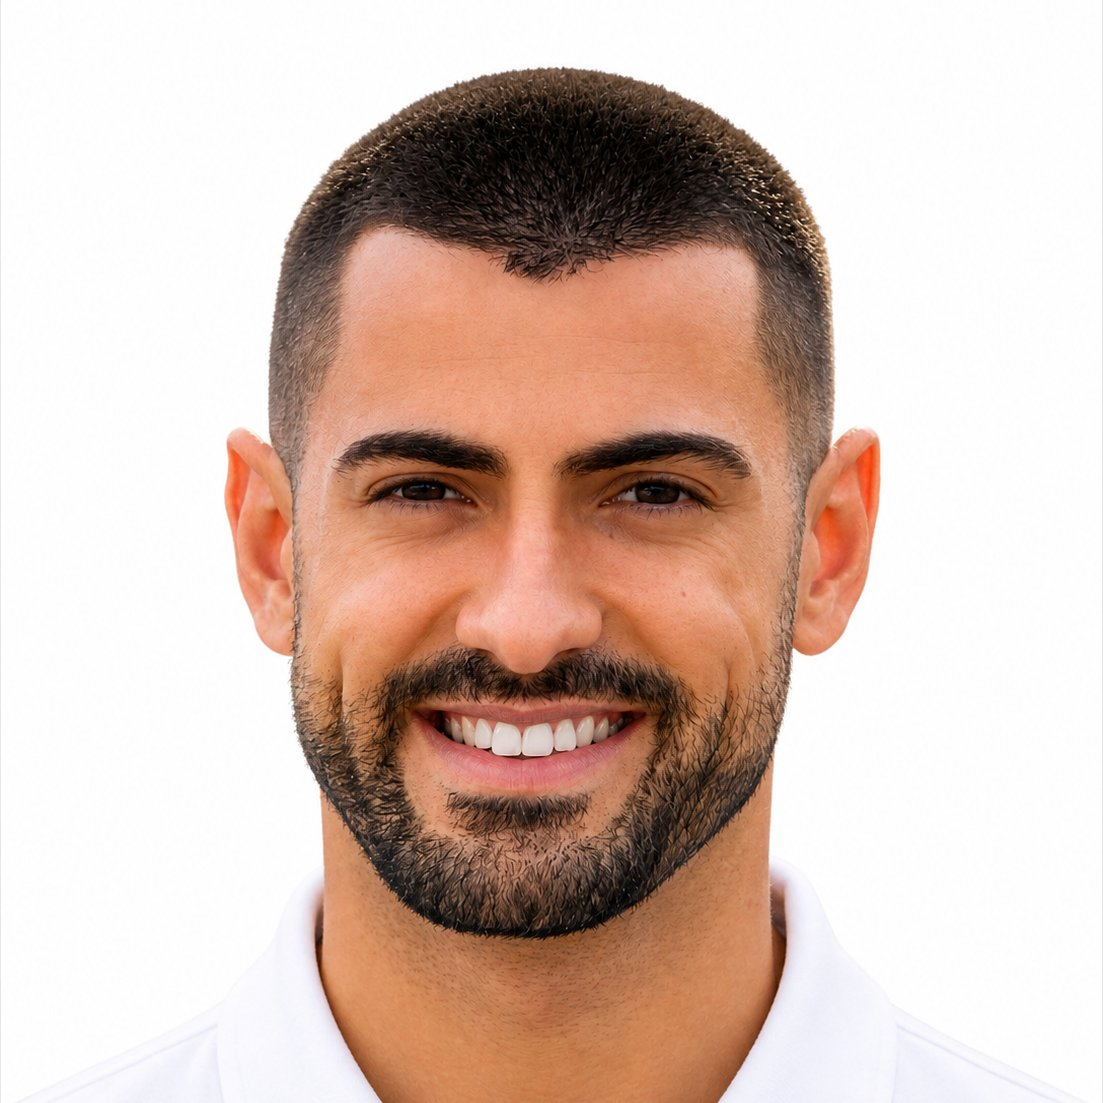
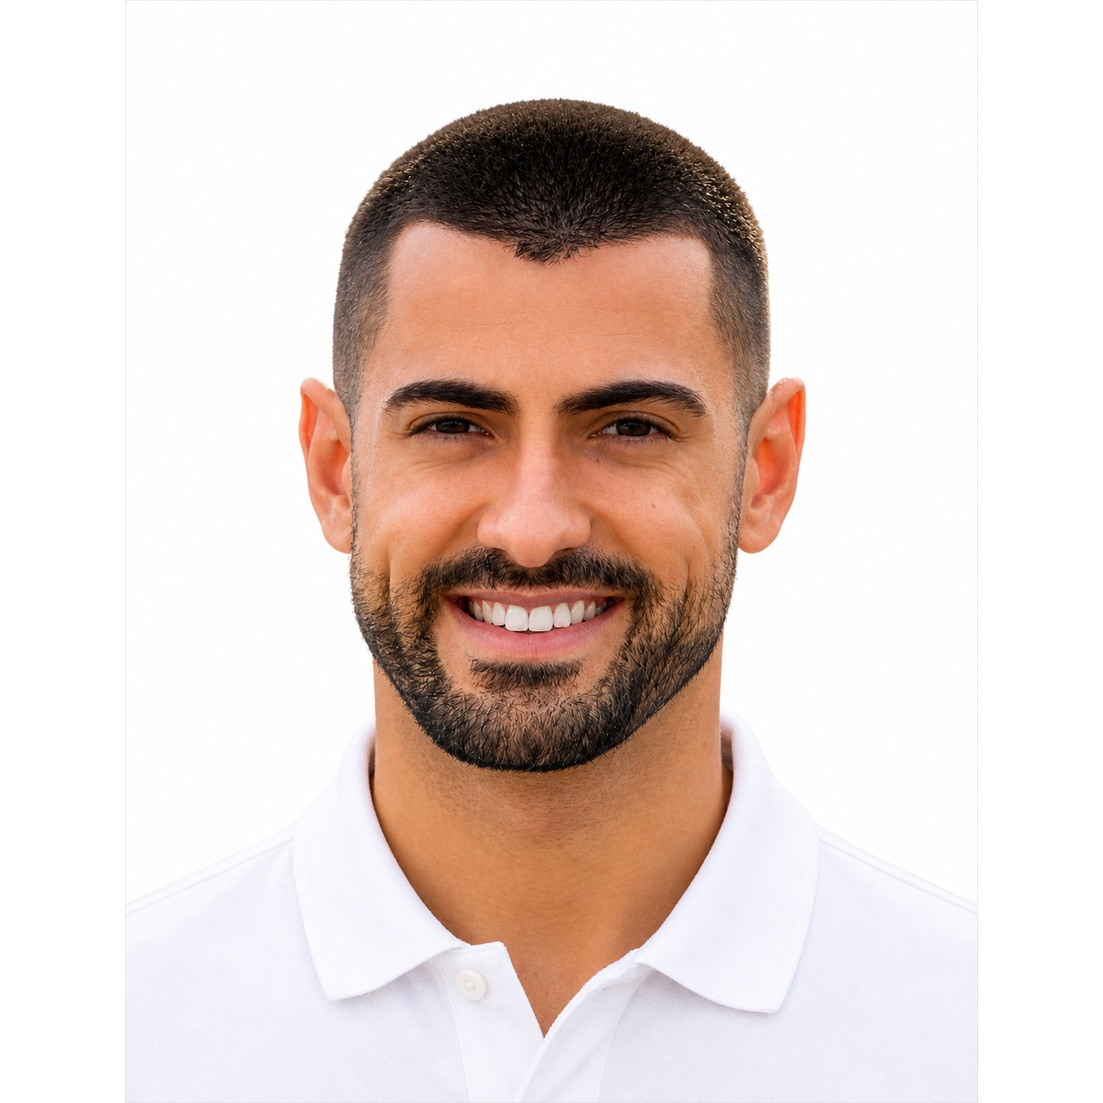
Add files via upload

diff --git a/assets/styles.css b/assets/styles.css
@@ -6,7 +6,7 @@ header{position:fixed;z-index:100;top:0;left:0;right:0;height:76px;background:rg
 .about{background:var(--soft)}.about-grid{display:grid;grid-template-columns:1.15fr .85fr;gap:100px;align-items:center}.about p{font-size:17px;color:var(--muted);margin-top:20px}.statement{font-size:clamp(25px,3.1vw,36px);line-height:1.28;font-weight:700;border-left:3px solid var(--green);padding-left:30px}
 .service-head{display:flex;justify-content:space-between;align-items:end;gap:40px}.service-head .lead{margin-bottom:4px}.services{display:grid;grid-template-columns:repeat(2,1fr);gap:18px;margin-top:62px}.service{border:1px solid var(--line);border-radius:var(--radius);padding:34px;min-height:245px;position:relative;overflow:hidden;transition:.25s}.service:after{content:"";position:absolute;width:100px;height:100px;border-radius:50%;background:rgba(72,165,123,.07);right:-45px;bottom:-45px}.service:hover{transform:translateY(-5px);box-shadow:0 20px 55px rgba(11,36,51,.08);border-color:rgba(72,165,123,.45)}.num{font-size:11px;font-weight:900;color:var(--green2);letter-spacing:1.4px;margin-bottom:42px}.service h3{font-size:25px;margin-bottom:12px}.service p{font-size:15px;color:var(--muted);max-width:470px}
 .dark{background:var(--ink);color:#fff}.dark h2{color:#fff}.dark .lead{color:#afc0c8}.expertise{margin-top:60px;display:grid;grid-template-columns:repeat(3,1fr);border:1px solid rgba(255,255,255,.13)}.expertise article{padding:32px;border-right:1px solid rgba(255,255,255,.13);border-bottom:1px solid rgba(255,255,255,.13);min-height:175px}.expertise article:nth-child(3n){border-right:0}.expertise article:nth-child(n+4){border-bottom:0}.expertise h3{font-size:19px;margin-bottom:9px}.expertise p{font-size:14px;color:#9fb1ba}
-.founder-section{padding-bottom:125px}.founder-grid{display:grid;grid-template-columns:.75fr 1.25fr;gap:90px;align-items:center;margin-top:58px}.photo-wrap{max-width:405px;position:relative}.photo-wrap:after{content:"";position:absolute;z-index:0;right:-13px;bottom:-13px;width:78%;height:78%;background:rgba(72,165,123,.13);border-radius:24px}.photo{width:100%;aspect-ratio:1;object-fit:cover;border-radius:24px;position:relative;z-index:1;box-shadow:0 25px 65px rgba(11,36,51,.13)}.name{font-size:clamp(39px,5vw,59px);letter-spacing:-3px}.role{font-size:14px;font-weight:850;color:var(--green2);margin:8px 0 25px}.bio{font-size:17px;color:var(--muted);margin-bottom:17px;max-width:680px}.credentials{display:grid;grid-template-columns:repeat(2,1fr);gap:10px;margin-top:28px;max-width:600px}.credential{border:1px solid var(--line);border-radius:12px;padding:15px 17px}.credential strong{display:block;font-size:13px}.credential span{font-size:12px;color:var(--muted)}
+.founder-section{padding-bottom:125px}.founder-grid{display:grid;grid-template-columns:.75fr 1.25fr;gap:90px;align-items:center;margin-top:58px}.photo-wrap{max-width:405px;position:relative;aspect-ratio:1;background:#fff;border-radius:24px}.photo-wrap:after{content:"";position:absolute;z-index:0;right:-13px;bottom:-13px;width:78%;height:78%;background:rgba(72,165,123,.13);border-radius:24px}.photo{display:block;width:100%;height:100%;aspect-ratio:1;object-fit:contain;object-position:center;border-radius:24px;position:relative;z-index:1;box-shadow:0 25px 65px rgba(11,36,51,.13);background:#fff}.name{font-size:clamp(39px,5vw,59px);letter-spacing:-3px}.role{font-size:14px;font-weight:850;color:var(--green2);margin:8px 0 25px}.bio{font-size:17px;color:var(--muted);margin-bottom:17px;max-width:680px}.credentials{display:grid;grid-template-columns:repeat(2,1fr);gap:10px;margin-top:28px;max-width:600px}.credential{border:1px solid var(--line);border-radius:12px;padding:15px 17px}.credential strong{display:block;font-size:13px}.credential span{font-size:12px;color:var(--muted)}
 .approach{background:var(--soft)}.steps{display:grid;grid-template-columns:repeat(4,1fr);margin-top:62px;border-top:1px solid var(--line)}.step{padding:28px 22px 0 0;border-right:1px solid var(--line)}.step:not(:first-child){padding-left:22px}.step:last-child{border-right:0}.stepno{color:var(--green2);font-size:11px;font-weight:900;letter-spacing:1.2px;margin-bottom:21px}.step h3{font-size:22px;margin-bottom:10px}.step p{font-size:14px;color:var(--muted)}
 .contact{background:linear-gradient(135deg,var(--ink),var(--ink2));color:#fff}.contact h2{color:#fff}.contact .lead{color:#b2c2c9}.contact-grid{display:grid;grid-template-columns:.75fr 1.25fr;gap:85px;margin-top:58px}.contact-copy p{color:#afc0c8;margin-bottom:25px}.contact-link{display:block;font-size:16px;margin:12px 0}.contact-link:hover{color:#8ed4b1}form{display:grid;gap:12px}form input,form textarea,form select{width:100%;border:1px solid rgba(255,255,255,.18);background:rgba(255,255,255,.07);border-radius:9px;color:#fff;padding:14px 15px;outline:0}form input::placeholder,form textarea::placeholder{color:#a6b8c0}form select{color:#dce5e8}form option{color:var(--ink)}form textarea{min-height:150px;resize:vertical}form button{border:0;cursor:pointer;background:var(--green);color:#fff}.note{font-size:11px;color:#8da2ab}.hp-field{position:absolute;left:-9999px;top:-9999px;opacity:0;height:0;width:0;overflow:hidden}
 footer{background:#061923;color:#849aa4;padding:30px 0}.footer{display:flex;justify-content:space-between;align-items:center;gap:25px}.footer-brand{display:flex;align-items:center;gap:16px}.footer-logo{height:28px;width:auto;display:block}.footer small{display:block}.footer-links{display:flex;gap:20px;font-size:13px}.footer-links a:hover{color:#fff}.reveal{opacity:0;transform:translateY(18px);transition:opacity .7s ease,transform .7s ease}.reveal.on{opacity:1;transform:none}

diff --git a/index.html b/index.html
@@ -23,7 +23,7 @@
 <script type="application/ld+json">
 {"@context":"https://schema.org","@type":"ProfessionalService","name":"LCON DIGITAL","url":"https://lcon-digital.com/","description":"Bespoke SAP consulting and digital transformation, tailored digitally to your business.","founder":{"@type":"Person","name":"Leandro Costa"},"sameAs":["https://www.linkedin.com/company/lcondigital/","https://www.instagram.com/lcondigital/"]}
 </script>
-<link rel="stylesheet" href="/assets/styles.css?v=3">
+<link rel="stylesheet" href="/assets/styles.css?v=4">
   <meta name="theme-color" content="#0b2433">
 </head>
 <body>
